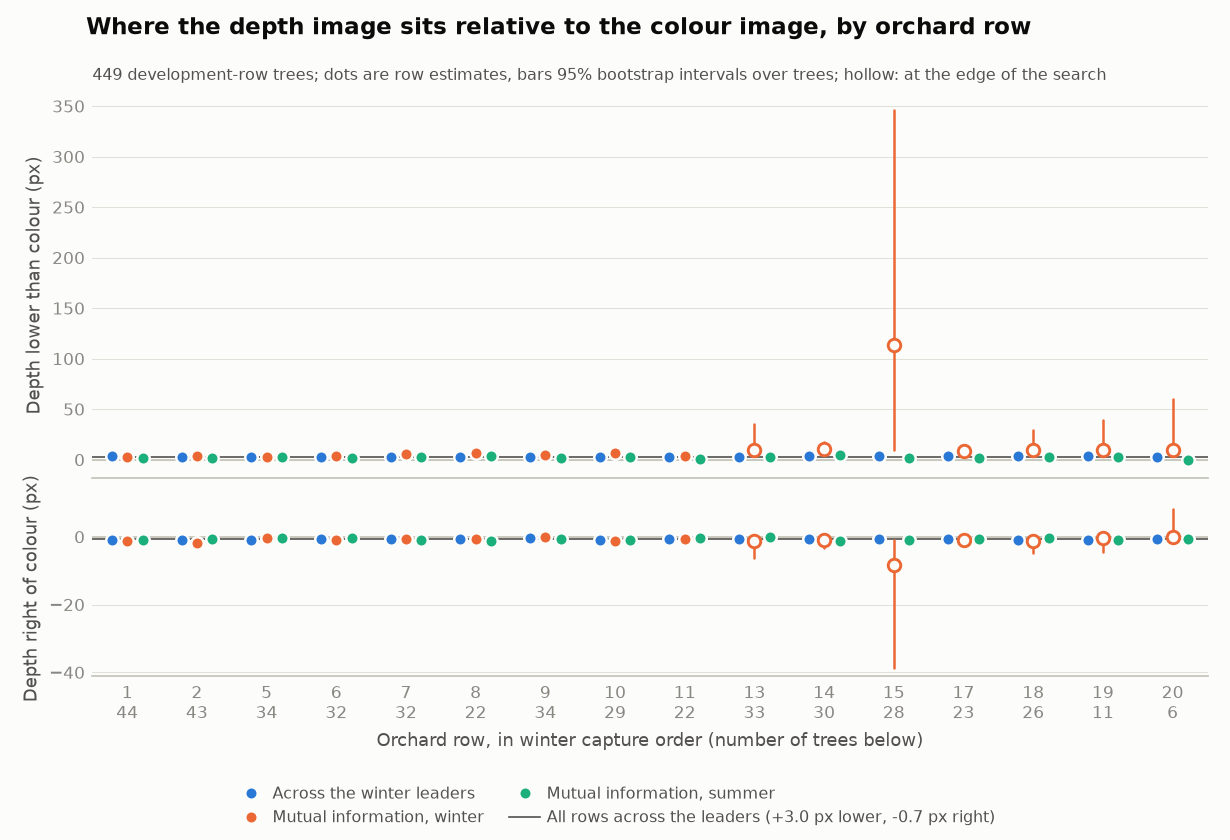
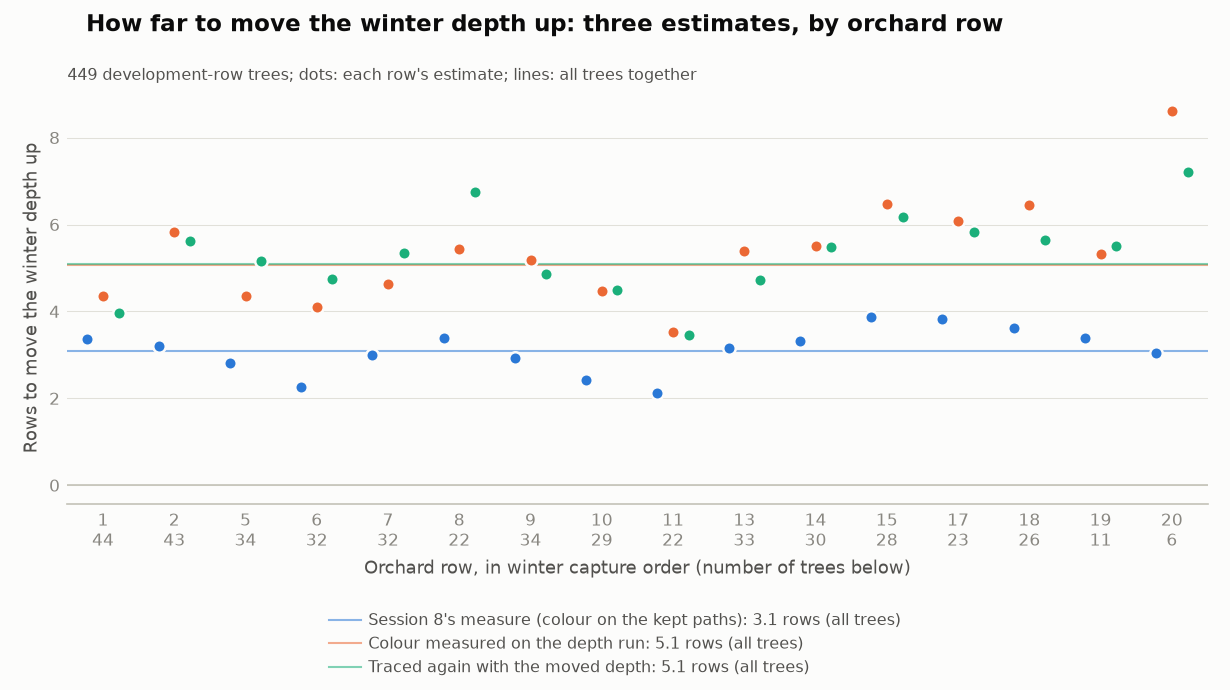
Record the 449-tree registration run and chart the estimates by row
The run on all development trees answers two of session 8's questions: the
shift is the same for every tree (the near and far halves of the leaders
do not agree tree by tree, r = +0.03) and it does not depend on distance,
so one correction fits all. How far is still split: session 8's measure
gives 3.1 rows, and the two estimates that take the colour pull out give
5.06 and 5.09, above it in all 16 rows. The chart now shows exactly that.

Mutual information's peak is kept within the searched shifts: a row's
winter surface had extrapolated to 113 px and flattened the first chart.

Claude-Session: https://claude.ai/code/session_013Wp8DuwFVref7CszJ8tGQK

diff --git a/src/treeskel/measure_registration.py b/src/treeskel/measure_registration.py
@@ -524,7 +524,9 @@ def mi_peak(surface: np.ndarray, window: int = PEAK_WINDOW, iters: int = 5) -> t
         ``(dy, dx, at_edge)``; ``at_edge`` is True if the window could not be
         centred on the peak (it lies within ``window`` of the edge of the
         search, or beyond it) or the fit has no maximum, when the peak may lie
-        further out than was searched.
+        further out than was searched. The shift is kept within the search
+        (on all 449 development trees, one row's winter surface extrapolated
+        to 113 px).
     """
     size = surface.shape[0]
     reach = size // 2
@@ -549,6 +551,8 @@ def mi_peak(surface: np.ndarray, window: int = PEAK_WINDOW, iters: int = 5) -> t
             break
         peak = new
     edge = not ok or bool(np.any(np.abs(peak - reach) > reach - w))
+    # A vertex far outside the fitted window means nothing: report at most the edge of the search.
+    peak = np.clip(peak, 0, size - 1)
     return float(peak[0] - reach), float(peak[1] - reach), edge
 
 
@@ -1070,13 +1074,13 @@ def _write_trees(f, rows: list[dict]) -> None:
 
 
 def plot_rows(report: dict, path: Path, failed: list[str]) -> None:
-    """Dot chart of the shift by orchard row, in capture order, with 95% bootstrap intervals over trees.
+    """Dot chart of the rows to move the winter depth up, by orchard row in capture order.
 
-    Two panels share the rows: the vertical part of the shift (the story) and
-    the sideways part. Three series, dodged within each row: across the
-    winter leaders (the reference), and mutual information on winter and on
-    summer. A hollow dot is at the edge of the search (the peak may lie
-    beyond it). A line marks the pooled estimate across the leaders.
+    Three estimates made on all cross-sections (:func:`correction_estimates`):
+    session 8's (the colour measured on the kept paths), the colour measured
+    on the depth run, and the trees traced again with the moved depth. Dots
+    are each orchard row's estimate, dodged within the row; a line of the
+    same colour marks the estimate from all trees, which the legend gives.
     """
     import matplotlib
 
@@ -1084,53 +1088,42 @@ def plot_rows(report: dict, path: Path, failed: list[str]) -> None:
     import matplotlib.pyplot as plt
 
     ink, secondary, muted, grid, axis, surface = "#0b0b0b", "#52514e", "#898781", "#e1e0d9", "#c3c2b7", "#fcfcfb"
-    series = [("leaders", "Across the winter leaders", "#2a78d6"),
-              ("mi_winter", "Mutual information, winter", "#eb6834"),
-              ("mi_summer", "Mutual information, summer", "#1baf7a")]
+    series = [("path_all", "Session 8's measure (colour on the kept paths)", "#2a78d6"),
+              ("anchored_all", "Colour measured on the depth run", "#eb6834"),
+              ("retraced_all", "Traced again with the moved depth", "#1baf7a")]
     rows = sorted(report["by_row"], key=lambda r: r["time"])
     x = np.arange(len(rows))
-    fig, axes = plt.subplots(2, 1, figsize=(8.2, 5.6), dpi=150, sharex=True, gridspec_kw={"height_ratios": [2.2, 1]})
+    fig, ax = plt.subplots(figsize=(8.2, 4.6), dpi=150)
     fig.patch.set_facecolor(surface)
-    pooled = report["fixed_set"]
-    for ax, part in zip(axes, ("dy", "dx")):
-        ax.set_facecolor(surface)
-        ax.axhline(0, color=axis, lw=0.8, zorder=1)
-        ax.axhline(pooled[part], color=secondary, lw=0.8, zorder=1,
-                   label=f"All rows across the leaders ({pooled['dy']:+.1f} px lower, {pooled['dx']:+.1f} px right)")
-        for k, (key, name, colour) in enumerate(series):
-            labelled = False
-            for xi, r in zip(x + (k - 1) * 0.22, rows):
-                e = r if key == "leaders" else r[key]
-                v, ci = e[part], e[f"ci_{part}"]
-                if v is None or not np.isfinite(v):
-                    continue
-                if ci:
-                    ax.plot([xi, xi], ci, color=colour, lw=1.2, solid_capstyle="round", zorder=2)
-                hollow = key != "leaders" and e.get("at_edge")
-                ax.plot(xi, v, "o", ms=6, color=colour, mfc=surface if hollow else colour, mec=colour if hollow
-                        else surface, mew=1.4 if hollow else 1.2, zorder=3, label=None if labelled else name)
-                labelled = True
-        ax.grid(axis="y", color=grid, lw=0.5)
-        ax.set_axisbelow(True)
-        for side in ("top", "right", "left"):
-            ax.spines[side].set_visible(False)
-        ax.spines["bottom"].set_color(axis)
-        ax.tick_params(colors=muted, labelsize=8, length=0)
-    axes[0].set_ylabel("Depth lower than colour (px)", fontsize=8.5, color=secondary)
-    axes[1].set_ylabel("Depth right of colour (px)", fontsize=8.5, color=secondary)
-    axes[1].set_xticks(x, [f"{r['row']}\n{r['n_trees']}" for r in rows])
-    axes[1].set_xlabel("Orchard row, in winter capture order (number of trees below)", fontsize=8.5, color=secondary)
-    fig.suptitle("Where the depth image sits relative to the colour image, by orchard row", x=0.07, ha="left",
+    ax.set_facecolor(surface)
+    ax.axhline(0, color=axis, lw=0.8, zorder=1)
+    for k, (key, name, colour) in enumerate(series):
+        pooled = (report["estimates"][key]["move"] or [None])[0]
+        if pooled is not None:
+            ax.axhline(-pooled, color=colour, lw=1.0, alpha=0.55, zorder=1,
+                       label=f"{name}: {-pooled:.1f} rows (all trees)")
+        values = [(xi + (k - 1) * 0.22, -r["estimates"][key][0]) for xi, r in zip(x, rows)
+                  if r["estimates"].get(key) and r["estimates"][key][0] is not None]
+        if values:
+            ax.plot(*zip(*values), "o", ms=6, color=colour, mec=surface, mew=1.2, zorder=3)
+    ax.set_xlim(-0.5, len(rows) - 0.5)
+    ax.set_xticks(x, [f"{r['row']}\n{r['n_trees']}" for r in rows])
+    ax.set_xlabel("Orchard row, in winter capture order (number of trees below)", fontsize=8.5, color=secondary)
+    ax.set_ylabel("Rows to move the winter depth up", fontsize=8.5, color=secondary)
+    ax.grid(axis="y", color=grid, lw=0.5)
+    ax.set_axisbelow(True)
+    for side in ("top", "right", "left"):
+        ax.spines[side].set_visible(False)
+    ax.spines["bottom"].set_color(axis)
+    ax.tick_params(colors=muted, labelsize=8, length=0)
+    fig.suptitle("How far to move the winter depth up: three estimates, by orchard row", x=0.07, ha="left",
                  fontsize=11, color=ink, fontweight="bold")
-    axes[0].set_title(f"{report['n_trees']} development-row trees; dots are row estimates, bars 95% bootstrap "
-                      "intervals over trees; hollow: at the edge of the search", loc="left", fontsize=7.5,
-                      color=secondary)
-    axes[0].set_xlim(-0.5, len(rows) - 0.5)
-    handles, labels = axes[0].get_legend_handles_labels()
-    order = [labels.index(name) for _, name, _ in series if name in labels] + [0]     # the line was added first
-    fig.legend([handles[i] for i in order], [labels[i] for i in order], loc="lower center", bbox_to_anchor=(0.5, 0.0),
-               frameon=False, fontsize=7.5, labelcolor=secondary, ncol=2, handletextpad=0.4, columnspacing=1.6)
-    fig.tight_layout(rect=(0, 0.08, 1, 1))
+    ax.set_title(f"{report['n_trees']} development-row trees; dots: each row's estimate; lines: all trees together",
+                 loc="left", fontsize=7.5, color=secondary)
+    handles, labels = ax.get_legend_handles_labels()
+    fig.legend(handles, labels, loc="lower center", bbox_to_anchor=(0.5, 0.0), frameon=False, fontsize=7.5,
+               labelcolor=secondary, ncol=1, handletextpad=0.5)
+    fig.tight_layout(rect=(0, 0.13, 1, 1))
     try:
         fig.savefig(path, facecolor=surface)
     except OSError as e:

diff --git a/tests/test_measure_registration.py b/tests/test_measure_registration.py
@@ -212,8 +212,8 @@ def test_mi_peak_refines_between_pixels_and_flags_the_edge():
     y, x = np.mgrid[-8:9, -8:9]
     tilted = -((y - 1.3) ** 2) - (x + 0.6) ** 2 - 0.3 * (y - 1.3) * (x + 0.6)      # vertex (1.3, -0.6)
     assert mi_peak(tilted) == pytest.approx((1.3, -0.6, False), abs=1e-6)
-    dy, dx, edge = mi_peak(-((y - 9) ** 2) - x ** 2)                  # beyond the search
-    assert edge and dy > 5
+    dy, dx, edge = mi_peak(-((y - 9) ** 2) - x ** 2)                  # beyond the search: at its edge
+    assert edge and dy == 8.0
     assert mi_peak(-(np.abs(y - 6.0)) - np.abs(x))[2]                   # within the window of the edge
     assert mi_peak(y * 0.0 + x)[2]                                      # no maximum at all
 

diff --git a/docs/results/depth_registration/README.md b/docs/results/depth_registration/README.md
@@ -226,6 +226,49 @@ at the low end.
   the leader with a branch beside it, the eye cannot place the edge to 1 px
   either.
 
+### All 449 development trees (session 9, the student's PC)
+
+Console output in `all_dev_rows_output.txt`, the numbers in `report.json` and
+`trees.csv`, and `depth_registration_rows.png` (redrawn from `report.json`
+after the run; the first chart plotted a mutual-information peak extrapolated
+to 113 px, which is now kept within the search).
+
+- **The depth sits lower than the colour** on 431 of 447 trees.
+- **One shift for every tree.** The halves of the leaders near and far from
+  the fork do not agree tree by tree (r = +0.03): the real spread across
+  trees is about 0.4 px, against 2.8 px of noise in each half. The shift does
+  not depend on the tree's distance either (Spearman −0.03): a fixed offset
+  of the camera, not parallax.
+- **Steady across the image and the capture.** By bands of rows (session 8's
+  measure, cross-sections usable at every move): +2.60, +3.13, +3.01, +2.80
+  px. By orchard row, in capture order from 11:23 to 13:26: 2.1 to 3.9 rows
+  (mean 3.11 ± 0.25). The bands of columns and the affine fit's sideways
+  terms are not reliable: the leaders' normals come in two families, one per
+  leader, and a band of columns holds mostly one leader, which cannot tell
+  dy from dx.
+
+| Estimate of the correction (449 trees) | Rows | Cols | Mean of the 16 rows ± 2 SE |
+|---|---|---|---|
+| Session 8's measure: colour on the kept paths | −3.10 | +0.81 | −3.11 ± 0.25 |
+| The same: equal overshoot past both edges | −2.80 | | |
+| Colour measured on the depth run | **−5.06** | +0.87 | −5.35 ± 0.61 |
+| Traced again (left: +0.56 px at 4 rows up, +0.04 at 5) | **−5.09** | | −5.31 ± 0.48 |
+| Mutual information, winter | −4.75 (CI −5.12 to −4.38) | +0.89 | not usable by row |
+| Both edges clear: kept paths / depth run / traced again | −2.46 / −3.54 / −3.29 | +2.63 / +2.55 | |
+
+- **The two estimates that take the pull out agree** (5.06 and 5.09 rows),
+  and lie above session 8's measure in all 16 rows, by about 2 rows
+  (`depth_registration_rows.png`).
+- **The clear-edge subset is not the best-behaved after all.** On 21 trees it
+  looked best; on 449 its sideways estimate is +2.6 columns where every
+  other estimate gives +0.8 to +0.9. Which cross-sections have both edges
+  clear depends on the light (from the right), so the subset is biased;
+  traced again, it reads −0.47 and −1.12 px (dy) with −1.5 px (dx).
+- **Mutual information** is not reliable in winter: 184 of 449 trees' surfaces
+  peak at the edge of the search, and so do 7 of the 16 rows (all those
+  captured after 12:55). In summer it reads 2.28 px down (CI 2.13–2.41),
+  0.67 px left; by bands of rows 2.09, 2.22 and 3.15; 28 trees at the edge.
+
 ## Next (session 8's list)
 
 1. Turn `reproduce.py`'s measurement into a package module and run it on all
